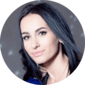
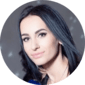
fix photo

diff --git a/src/partials/customer.html b/src/partials/customer.html
@@ -8,59 +8,10 @@
         <div class="swiper-slide">
           <img
             class="swiper-slide__pic"
-            src="./images/custom-services/Serhii.png"
-            alt="Serhii"
-            width="85"
-            height="85"
-          />
-          <div class="customer-article">
-            <p class="customer-article__text">
-              An interesting course of study, the real development of layout and
-              programming skills. A team project provides excellent experience
-              and understanding of the nuances of joint development. Need more!
-            </p>
-          </div>
-          <p class="customer-article__location">Serhii, Ternopil</p>
-        </div>
-
-        <div class="swiper-slide">
-          <img
-            class="swiper-slide__pic"
-            src="./images/custom-services/Alevtyna.png"
-            alt="Alevtyna"
-            width="85"
-            height="85"
-          />
-          <div class="customer-article">
-            <p class="customer-article__text">
-              In GOIT I feel the professionalism of mentors in goaity, I like
-              that mentors give constructive criticism and real knowledge, and
-              of course, the most important thing is 70% practice and 30%
-              lectures!
-            </p>
-          </div>
-          <p class="customer-article__location">Alevtyna, Kharkiv</p>
-        </div>
-
-        <div class="swiper-slide">
-          <img
-            class="swiper-slide__pic"
-            src="./images/custom-services/Angelina.png"
-            alt="Angelina"
-            width="85"
-            height="85"
-          />
-          <div class="customer-article">
-            <p class="customer-article__text">
-              Good organization of education. Mentor Ivan Sinabdeev is the best.
-            </p>
-          </div>
-          <p class="customer-article__location">Angelina, Dnipro</p>
-        </div>
-
-        <div class="swiper-slide">
-          <img
-            class="swiper-slide__pic"
+            srcset="
+              ./images/custom-services/Margarita.png    1x,
+              ./images/custom-services/Margarita@2x.png 2x
+            "
             src="./images/custom-services/Margarita.png"
             alt="Margarita"
             width="85"
@@ -80,6 +31,75 @@
         <div class="swiper-slide">
           <img
             class="swiper-slide__pic"
+            srcset="
+              ./images/custom-services/Serhii.png    1x,
+              ./images/custom-services/Serhii@2x.png 2x
+            "
+            src="./images/custom-services/Serhii.png"
+            alt="Serhii"
+            width="85"
+            height="85"
+          />
+          <div class="customer-article">
+            <p class="customer-article__text">
+              An interesting course of study, the real development of layout and
+              programming skills. A team project provides excellent experience
+              and understanding of the nuances of joint development. Need more!
+            </p>
+          </div>
+          <p class="customer-article__location">Serhii, Ternopil</p>
+        </div>
+
+        <div class="swiper-slide">
+          <img
+            class="swiper-slide__pic"
+            srcset="
+              ./images/custom-services/Alevtyna.png    1x,
+              ./images/custom-services/Alevtyna@2x.png 2x
+            "
+            src="./images/custom-services/Alevtyna.png"
+            alt="Alevtyna"
+            width="85"
+            height="85"
+          />
+          <div class="customer-article">
+            <p class="customer-article__text">
+              In GOIT I feel the professionalism of mentors in goaity, I like
+              that mentors give constructive criticism and real knowledge, and
+              of course, the most important thing is 70% practice and 30%
+              lectures!
+            </p>
+          </div>
+          <p class="customer-article__location">Alevtyna, Kharkiv</p>
+        </div>
+
+        <div class="swiper-slide">
+          <img
+            class="swiper-slide__pic"
+            srcset="
+              ./images/custom-services/Angelina.png    1x,
+              ./images/custom-services/Angelina@2x.png 2x
+            "
+            src="./images/custom-services/Angelina.png"
+            alt="Angelina"
+            width="85"
+            height="85"
+          />
+          <div class="customer-article">
+            <p class="customer-article__text">
+              Good organization of education. Mentor Ivan Sinabdeev is the best.
+            </p>
+          </div>
+          <p class="customer-article__location">Angelina, Dnipro</p>
+        </div>
+
+        <div class="swiper-slide">
+          <img
+            class="swiper-slide__pic"
+            srcset="
+              ./images/custom-services/Valerie.png    1x,
+              ./images/custom-services/Valerie@2x.png 2x
+            "
             src="./images/custom-services/Valerie.png"
             alt="Valeriia"
             width="85"
@@ -99,6 +119,10 @@
         <div class="swiper-slide">
           <img
             class="swiper-slide__pic"
+            srcset="
+              ./images/custom-services/Viktoriia.png    1x,
+              ./images/custom-services/Viktoriia@2x.png 2x
+            "
             src="./images/custom-services/Viktoriia.png"
             alt="Viktoriia"
             width="85"
@@ -116,6 +140,10 @@
         <div class="swiper-slide">
           <img
             class="swiper-slide__pic"
+            srcset="
+              ./images/custom-services/Tatiana.png    1x,
+              ./images/custom-services/Tatiana@2x.png 2x
+            "
             src="./images/custom-services/Tatiana.png"
             alt="Tatiana"
             width="85"
@@ -136,6 +164,10 @@
         <div class="swiper-slide">
           <img
             class="swiper-slide__pic"
+            srcset="
+              ./images/custom-services/Vladyslav.png    1x,
+              ./images/custom-services/Vladyslav@2x.png 2x
+            "
             src="./images/custom-services/Vladyslav.png"
             alt="Vladyslav"
             width="85"
@@ -153,6 +185,10 @@
         <div class="swiper-slide">
           <img
             class="swiper-slide__pic"
+            srcset="
+              ./images/custom-services/Nataliya.png    1x,
+              ./images/custom-services/Nataliya@2x.png 2x
+            "
             src="./images/custom-services/Nataliya.png"
             alt="Nataliya"
             width="85"
